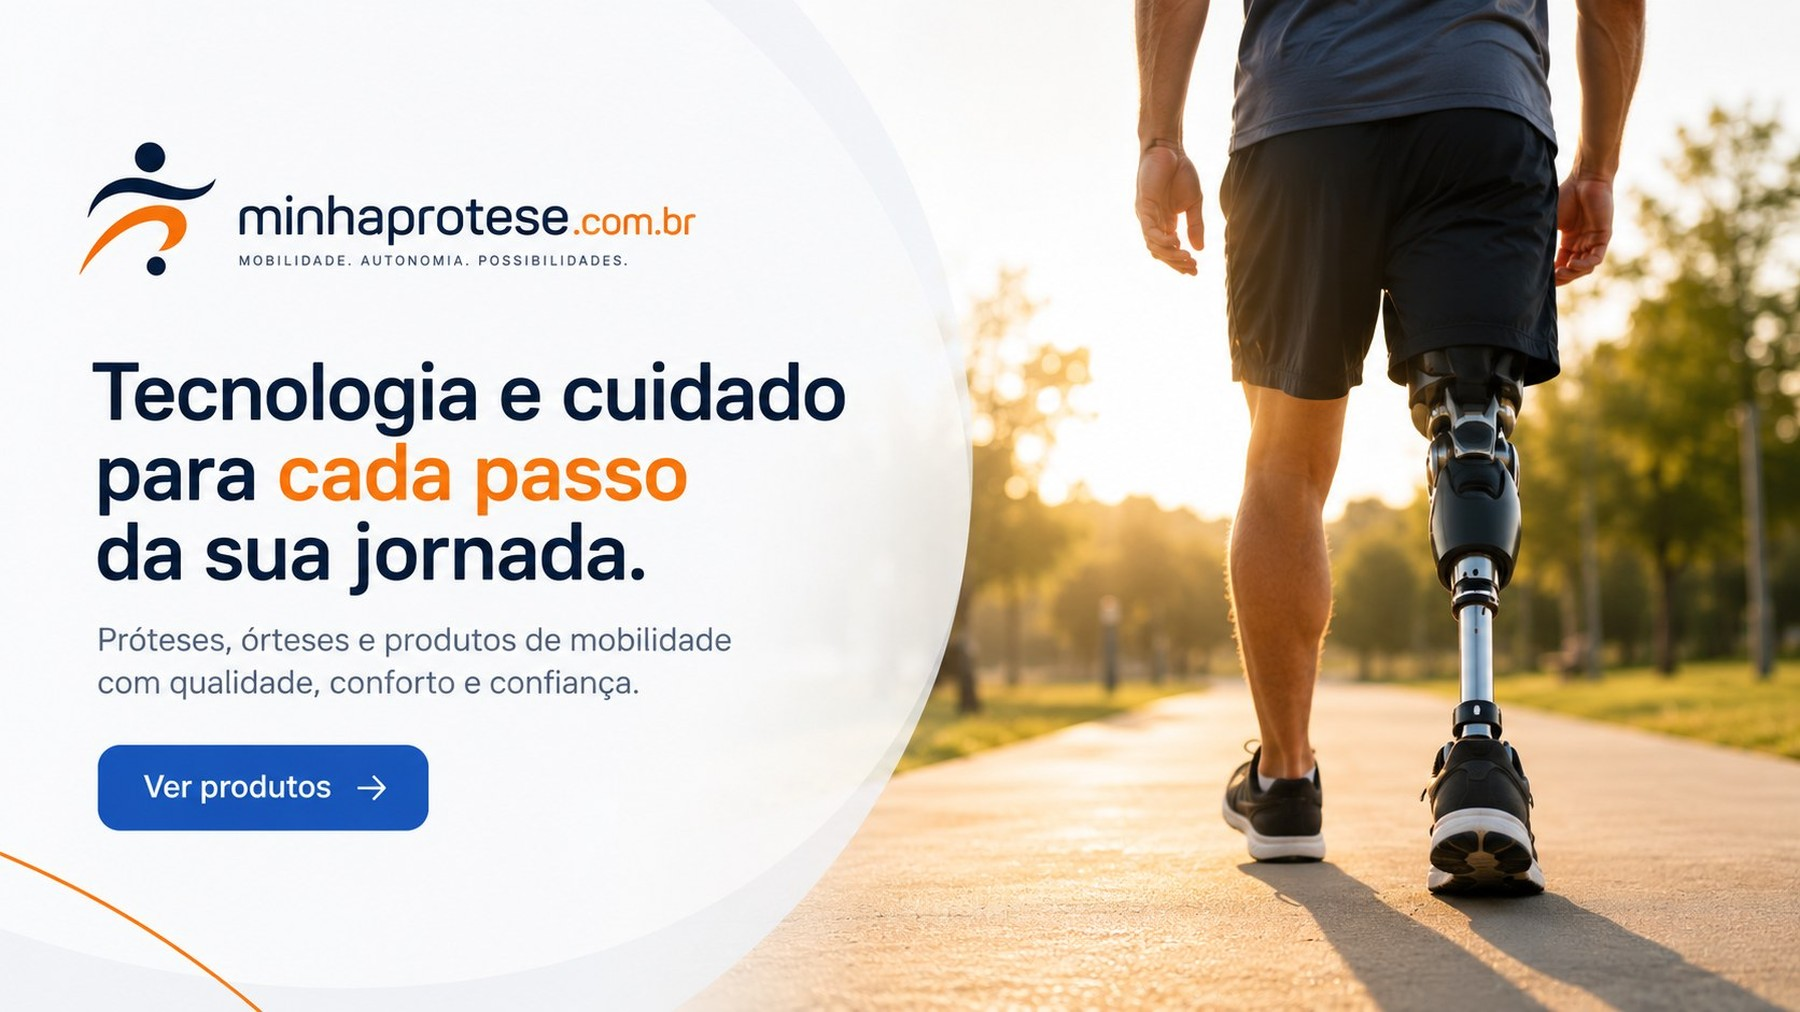
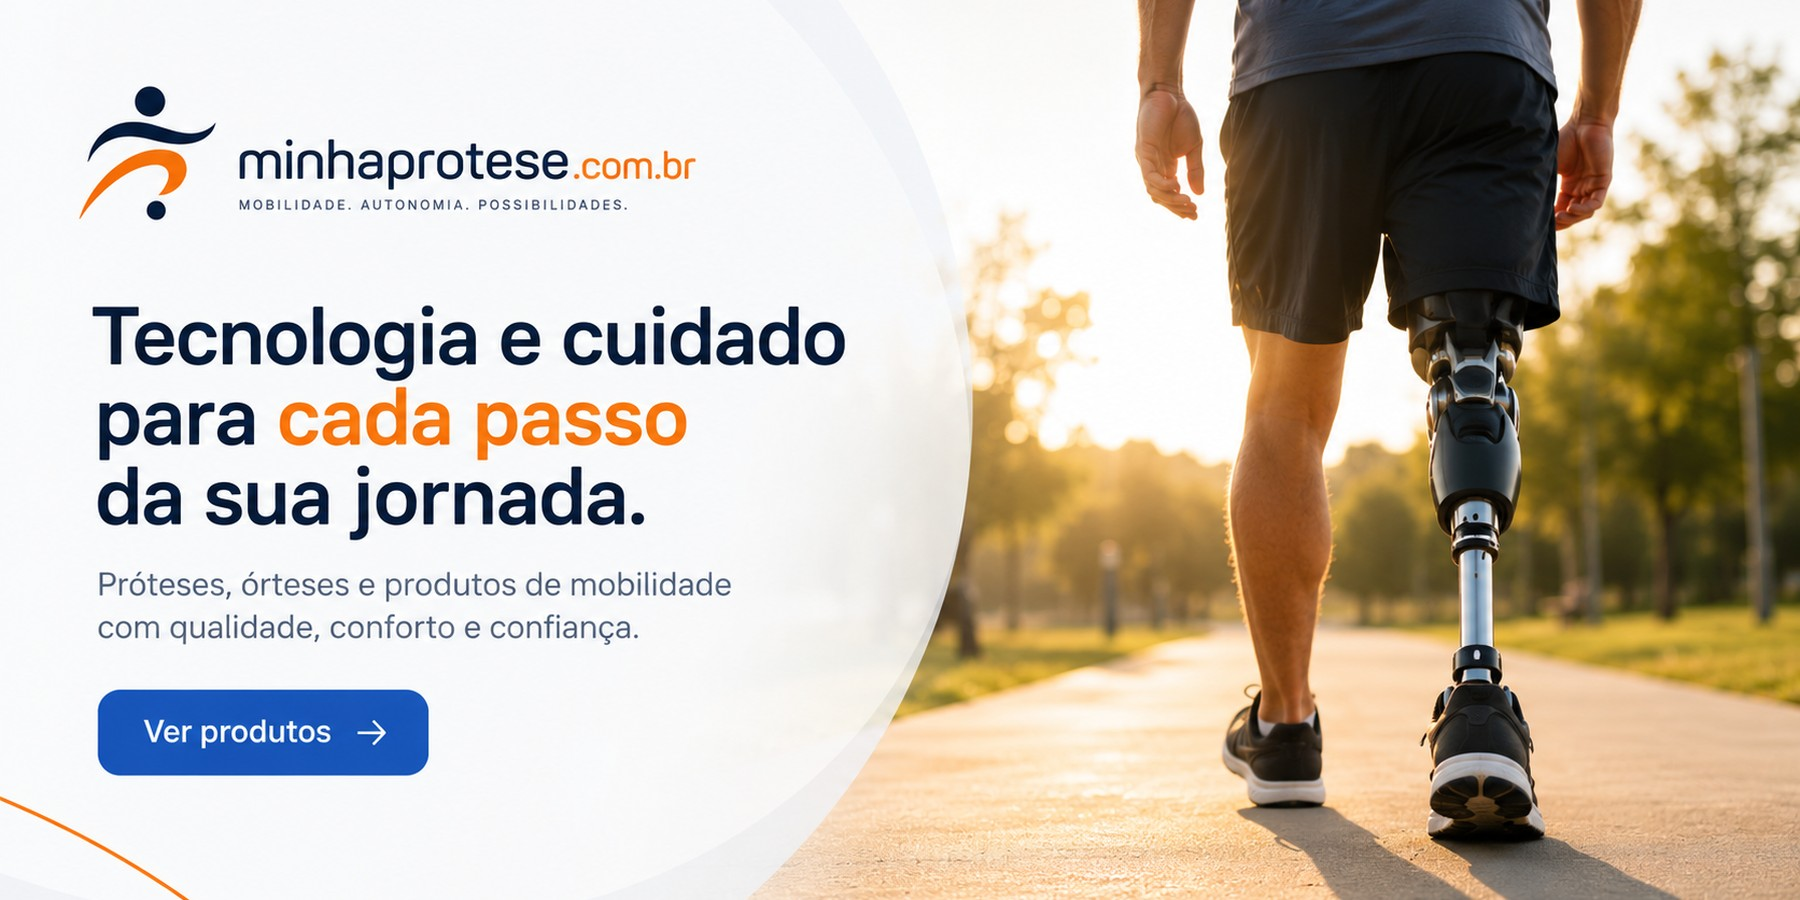
fix(carousel): aspect 2:1 desktop + 4:5 mobile vertical
Versão anterior (16:9 com 1800x1012):
- Banner 2 (mobilidade) ganhou 200px de borda em cada lado vertical —
  ficava 'esparso' visualmente, conteúdo concentrado no centro
- Mobile com aspect 4:3 + scale 1.05 cortava texto à esquerda e
  produto à direita (Pedro: 'imagens estouradas pra horizontal')

Refatoração:
- Aspect ratio do container: 2:1 (1800x900) — mais panorâmico
- Banner 1 e 3 (1672x941, ratio 1.78): redim. para 1800x1012 e
  cortados 56px topo/base → 1800x900. Perde só borda neutra.
- Banner 2 (1800x600, ratio 3:1): expandido para 1800x900 com
  bordas de 150px topo/base na cor #F8F8F9 (detectada automaticamente
  do canto do próprio banner — funde sem juntas visíveis).
- Background do container: #F8F8F9 (mesmo que as bordas do banner 2,
  invisíveis sob qualquer luz).
- Max-height desktop: 64vh (era 70vh — fica mais compacto)
- Tablet (≤920px): max-height 50vh
- Mobile (≤600px): aspect VERTICAL 4:5, max-height 75vh, object-position
  18% center — mostra TODO o lado esquerdo do banner (logo, título,
  CTA impresso) sem corte. Sem mais scale().
- Mobile pequeno (≤380px): aspect 1:1 pra caber em telas estreitas

diff --git a/docs/app/styles.css b/docs/app/styles.css
@@ -408,11 +408,11 @@ p  { margin: 0; }
 .hero-carousel {
   position: relative;
   width: 100%;
-  background: #FFFFFF;
+  background: #F8F8F9;
   overflow: hidden;
-  /* Aspect ratio 16:9 — todos os 3 banners padronizados em 1800x1012 */
-  aspect-ratio: 1800 / 1012;
-  max-height: 70vh;
+  /* Aspect ratio 2:1 — todos os 3 banners padronizados em 1800x900 */
+  aspect-ratio: 2 / 1;
+  max-height: 64vh;
 }
 .hero-carousel__track {
   position: relative;
@@ -441,22 +441,27 @@ p  { margin: 0; }
   display: block;
 }
 
-/* Tablet — mantém 16:9 mas limita altura */
+/* Tablet — mantém 2:1 mas limita altura */
 @media (max-width: 920px) {
-  .hero-carousel { max-height: 56vh; }
+  .hero-carousel { max-height: 50vh; }
 }
 
-/* Mobile — recorta zoom no lado esquerdo (logo+texto) e diminui altura */
+/* Mobile — vertical: aspect 4:5, mostra o lado esquerdo (logo + título + CTA) */
 @media (max-width: 600px) {
   .hero-carousel {
-    aspect-ratio: 4 / 3;
-    max-height: 60vh;
+    aspect-ratio: 4 / 5;
+    max-height: 75vh;
+    background: #F8F8F9;
   }
   .hero-carousel__slide img {
-    object-position: 25% center;
-    transform: scale(1.05);
-    transform-origin: 25% center;
+    object-fit: cover;
+    object-position: 18% center;
   }
+}
+
+/* Mobile pequeno — aspect ainda mais vertical (1:1) pra caber */
+@media (max-width: 380px) {
+  .hero-carousel { aspect-ratio: 1 / 1; }
 }
 
 /* Setas */